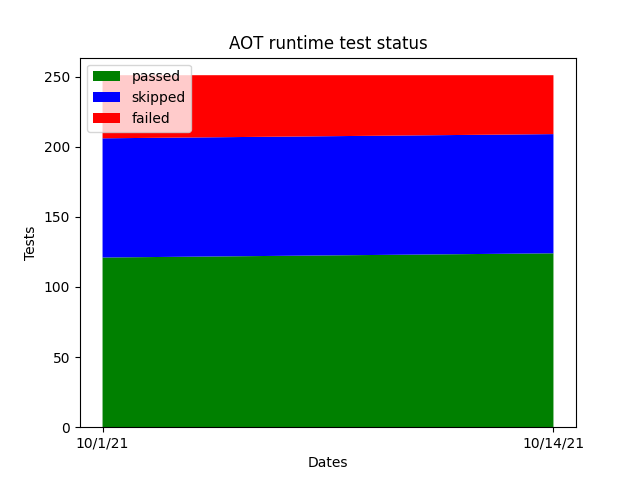
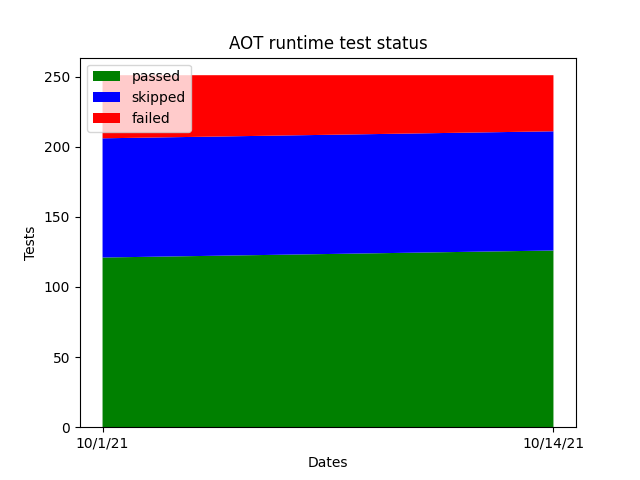
aot-bt: Update graph

diff --git a/examples/aot-bpftrace/tests_plot.py b/examples/aot-bpftrace/tests_plot.py
@@ -4,9 +4,9 @@ import matplotlib.pyplot as plt
 
 dates = ['10/1/21', '10/14/21']
 tests = {
-    'passed': [121, 124],
+    'passed': [121, 126],
     'skipped': [85, 85],
-    'failed': [45, 42],
+    'failed': [45, 40],
 }
 colors = [
     'green',
